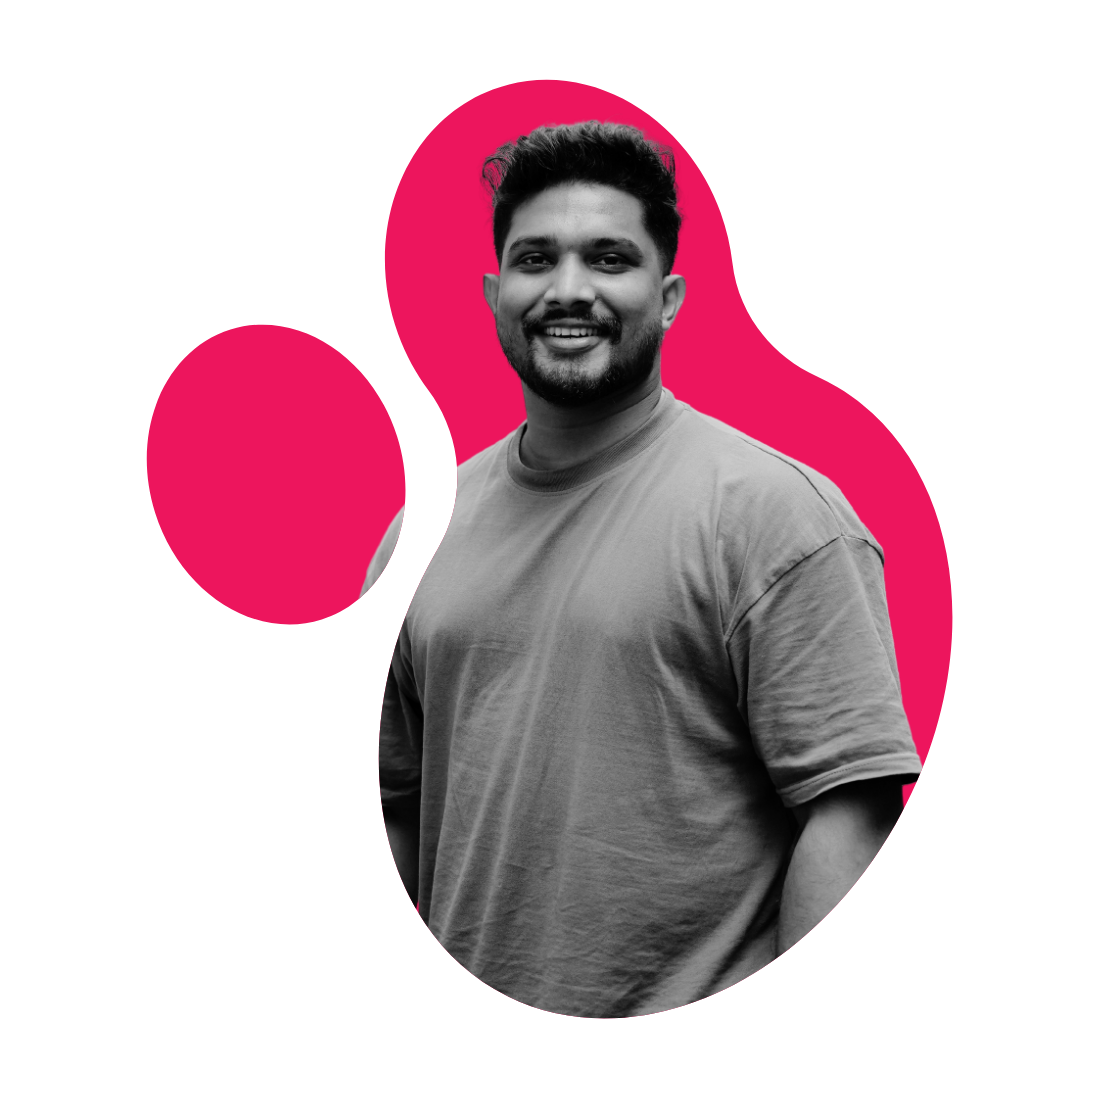
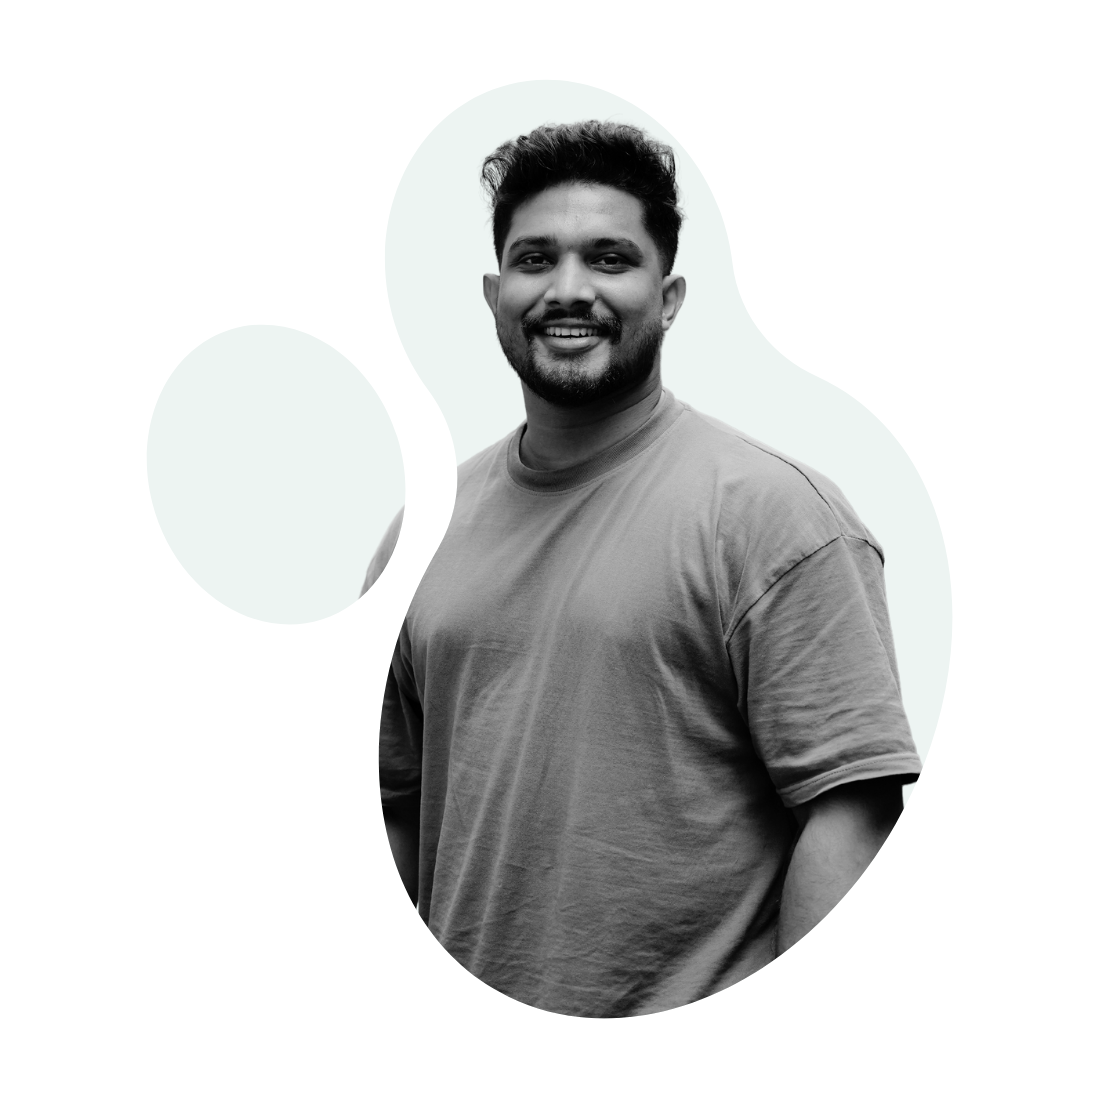
image changes

Changed region(s): [[0.125, 0.0625, 0.875, 0.6875], [0.7812, 0.6875, 0.8125, 0.7188]]

diff --git a/src/pages/HomePage.tsx b/src/pages/HomePage.tsx
@@ -1,12 +1,14 @@
 
 import NavBar from "../components/NavBar";
 import "../assets/styles/sass/homepage/_homepage.scss";
-import HeroImage from '../assets/images/5.png';
+import HeroImage from '../assets/images/2.png';
+import SmallscreenHeroImage from '../assets/images/Pamodith(1).png';
 import LinkedInIcon from '@mui/icons-material/LinkedIn';
 import GitHubIcon from '@mui/icons-material/GitHub';
 import InstagramIcon from '@mui/icons-material/Instagram';
 import CV from '../assets/pdfs/Pamodith_Maduwantha_CV.pdf';
 import { motion, useMotionValue, useTransform } from "framer-motion";
+import { useEffect, useState } from "react";
 
 const socialMedia = [
   { component: LinkedInIcon, label: 'LinkedIn', link: 'https://www.linkedin.com/in/pamodith-maduwantha/' },
@@ -29,6 +31,20 @@ const rightSectionVariants = {
 };
 
 const HomePage = () => {
+  const [isSmallScreen, setIsSmallScreen] = useState(false);
+
+  useEffect(() => {
+    const handleResize = () => {
+      setIsSmallScreen(window.innerWidth <= 768);
+    };
+
+    handleResize(); // Initial check
+    window.addEventListener('resize', handleResize);
+
+    return () => {
+      window.removeEventListener('resize', handleResize);
+    };
+  }, []);
   // const [dragMessage, setDragMessage] = useState("Not feeling it? Just drag me aside 😉");
   const x = useMotionValue(0); 
   const opacity = useTransform(x, [-300, 0, 300], [0, 1, 0]); 
@@ -92,14 +108,14 @@ const HomePage = () => {
             transition={{ duration: 0.8, ease: "easeInOut" }}
           >
             <motion.img
-              src={HeroImage}
+              src={isSmallScreen ? SmallscreenHeroImage : HeroImage}
               alt="Pamodith Maduwantha"
               className="hero-image"
               style={{ x, opacity }}
               drag="x"
               dragConstraints={{ left: -300, right: 300 }}
               dragElastic={0.5}
-              transition={{ type: "spring", stiffness: 300, damping: 25 }}
+              transition={{ type: 'spring', stiffness: 300, damping: 25 }}
             />
           </motion.div>
         </div>
